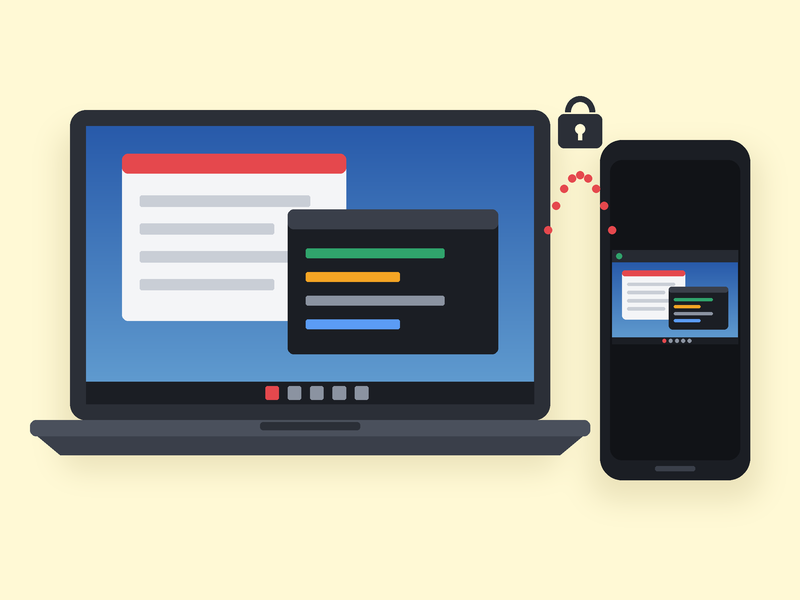
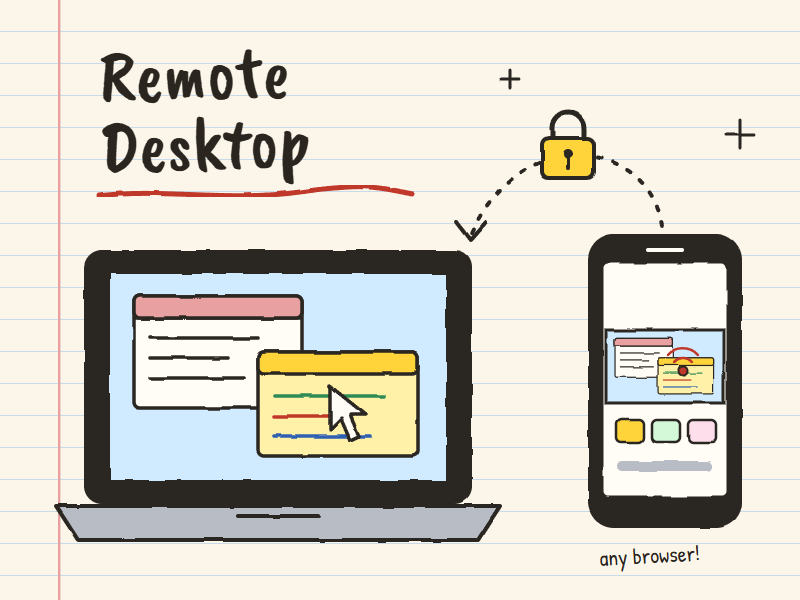
Parkour medal categories and a hand-drawn Remote Desktop card
CBG 2025: silver freestyle + speed. Voltz 2025: silver freestyle.
CBG 2026: bronze freestyle + speed. SPL5 keeps "11th in the World"
without a medal icon. Redraw the Remote Desktop card in the same
notebook style as the Loaf Tower and Jiu-Jitsu cards.

Claude-Session: https://claude.ai/code/session_01HHscnN11gzBZpL2bLG51DN

diff --git a/customprojects/parkour/index.html b/customprojects/parkour/index.html
@@ -76,7 +76,8 @@
                 <span class="year">2025</span>
                 <h3>Campeonato Brasileiro CBG 2025 <small>Brazilian Championship</small></h3>
                 <ul class="medals">
-                    <li><span class="medal silver" aria-hidden="true"></span>Silver Medal</li>
+                    <li><span class="medal silver" aria-hidden="true"></span>Silver - Freestyle Category</li>
+                    <li><span class="medal silver" aria-hidden="true"></span>Silver - Speed Category</li>
                 </ul>
                 <p class="links-row">
                     <a class="chip" href="https://www.instagram.com/p/DQrdpFOEW4F/" target="_blank"><i class="fab fa-instagram"></i> Competition Post</a>
@@ -95,7 +96,7 @@
                 <span class="year">2025</span>
                 <h3>Voltz Parkour 2025 <small>National Championship</small></h3>
                 <ul class="medals">
-                    <li><span class="medal silver" aria-hidden="true"></span>Silver Medal</li>
+                    <li><span class="medal silver" aria-hidden="true"></span>Silver - Freestyle Category</li>
                 </ul>
                 <p class="links-row">
                     <a class="chip" href="https://www.instagram.com/p/DRfTadpEQKg/" target="_blank"><i class="fab fa-instagram"></i> Semifinal Combo</a>
@@ -113,9 +114,7 @@
             <li class="comp sketch">
                 <span class="year">2026</span>
                 <h3>SPL5 - The Parkour World Championships 2026 <small>Vancouver, Canada</small></h3>
-                <ul class="medals">
-                    <li><span class="medal star" aria-hidden="true"></span>11th in the World</li>
-                </ul>
+                <p class="result">11th in the World</p>
                 <p class="muted">Qualified through Voltz Parkour</p>
                 <p class="links-row">
                     <a class="chip" href="https://www.instagram.com/reel/DcW7G5eRHXY/" target="_blank"><i class="fab fa-instagram"></i> My Line</a>
@@ -126,7 +125,8 @@
                 <span class="year">2026</span>
                 <h3>Campeonato Brasileiro CBG 2026 <small>Brazilian Championship</small></h3>
                 <ul class="medals">
-                    <li><span class="medal bronze" aria-hidden="true"></span>Bronze Medal</li>
+                    <li><span class="medal bronze" aria-hidden="true"></span>Bronze - Freestyle Category</li>
+                    <li><span class="medal bronze" aria-hidden="true"></span>Bronze - Speed Category</li>
                 </ul>
                 <p class="links-row">
                     <a class="chip" href="https://www.instagram.com/p/Dec2_eukUMQ/" target="_blank"><i class="fab fa-instagram"></i> Competition Post</a>

diff --git a/loaf_tower/js/cats.js b/loaf_tower/js/cats.js
@@ -129,6 +129,16 @@
       label: { en: 'Porcelain Cat', pt: 'Gato de Porcelana' }, desc: { en: 'Priceless. Please do not drop.', pt: 'Não tem preço. Por favor, não derrube.' } },
   };
 
+  // Loaf Tower cats are drawn and simulated 12% bigger than their base size (easier stacking).
+  const TOWER_K = 1.12;
+  ['loaf', 'curl', 'long', 'kitten', 'chonk', 'box', 'zoomies', 'perfect', 'cupcake', 'pudim', 'rainbow', 'galaxy'].forEach((k) => {
+    const t = TYPES[k];
+    t.w *= TOWER_K; t.h *= TOWER_K;
+    if (t.r) t.r *= TOWER_K;
+    if (t.face) t.face = [t.face[0] * TOWER_K, t.face[1] * TOWER_K];
+    t.fs = (t.fs || 1) * TOWER_K;
+  });
+
   /* ---- Purr Merge tiers: round cats that merge into the next tier ---- */
   const MERGE = [
     ['bean', 24, 'cream', 'Bean', 'Feijãozinho', 'Smallest cat. Biggest dreams.', 'Menor gato. Maiores sonhos.'],
@@ -766,8 +776,10 @@
     if (t.tail) {
       const sd = t.tail;
       const sw = Math.sin(T * 2.2 + seed) * 4;
-      const bx = sd * (w / 2 - 12), by = h / 2 - 10;
-      const tp = [[bx, by], [bx + sd * 20, by - 2], [bx + sd * 31, by - 20 + sw], [bx + sd * 25, by - 40 + sw * 1.6]];
+      // the tail curls up close along the side (it has no collider, so it must not look like part of the body's edge)
+      const bx = sd * (w / 2 - 16), by = h / 2 - 8;
+      const lift = Math.min(h * 0.62, 40);
+      const tp = [[bx, by], [bx + sd * 13, by - 3], [bx + sd * 17, by - lift * 0.5 + sw * 0.5], [bx + sd * 11, by - lift + sw]];
       D.tube(ctx, tp, { fill: P.kind === 'siamese' ? P.point : P.fill, width: 10 * Math.max(0.7, u), seed: seed + 3, boil, lw: 3 });
     }
 

diff --git a/loaf_tower/js/game.js b/loaf_tower/js/game.js
@@ -7,7 +7,7 @@
 
   const CX = 360;
   const GROUND_Y = 1050;
-  const PLAT_W = 330, PLAT_H = 46;
+  const PLAT_W = 400, PLAT_H = 46; // wider base = friendlier start (was 330)
   const FALL_Y = GROUND_Y + 330;
   const CM_PER_PX = 0.3;
   const DROP_SCREEN_Y = 228;
@@ -110,12 +110,13 @@
     pickType(n) {
       if (MILESTONES[n] && !this.seenThisRun.has(MILESTONES[n])) return MILESTONES[n];
       if (n < 2) return 'loaf';
-      const w = [['loaf', 30], ['curl', 14]];
-      if (n >= 3) w.push(['long', 12], ['perfect', 3]);
-      if (n >= 4) w.push(['kitten', 9]);
+      // round, rolly cats (curl, kitten, zoomies) are rarer; flat ones (loaf, long, perfect, box) more common
+      const w = [['loaf', 36], ['curl', 5]];
+      if (n >= 3) w.push(['long', 14], ['perfect', 5]);
+      if (n >= 4) w.push(['kitten', 5]);
       if (n >= 5) w.push(['chonk', 7]);
-      if (n > 5) w.push(['box', 5]);
-      if (n > 8) w.push(['zoomies', 4]);
+      if (n > 5) w.push(['box', 6]);
+      if (n > 8) w.push(['zoomies', 2]);
       if (n > 10) w.push(['cupcake', 3]);
       if (n > 13) w.push(['pudim', 3]);
       if (n > 16) w.push(['rainbow', 2.5]);

diff --git a/loaf_tower/js/render.js b/loaf_tower/js/render.js
@@ -54,11 +54,12 @@
   function drawBase(ctx, boil) {
     const { CX, GROUND_Y, PLAT_W, PLAT_H } = K();
     // stack of books under the cushion
+    const bk = PLAT_W / 330; // books follow the cushion width
     const books = [
-      { w: 280, h: 48, c: '#6fa8dc', s: '#3d6f9f', title: 'CATS' },
-      { w: 256, h: 40, c: '#e9c46a', s: '#b38f2f', title: '' },
-      { w: 290, h: 54, c: '#e76f51', s: '#a8432b', title: 'PHYSICS' },
-      { w: 266, h: 46, c: '#8ac926', s: '#5b8a14', title: '' },
+      { w: 280 * bk, h: 48, c: '#6fa8dc', s: '#3d6f9f', title: 'CATS' },
+      { w: 256 * bk, h: 40, c: '#e9c46a', s: '#b38f2f', title: '' },
+      { w: 290 * bk, h: 54, c: '#e76f51', s: '#a8432b', title: 'PHYSICS' },
+      { w: 266 * bk, h: 46, c: '#8ac926', s: '#5b8a14', title: '' },
     ];
     let y = GROUND_Y + PLAT_H - 6;
     books.forEach((b, i) => {

diff --git a/static/style.css b/static/style.css
@@ -380,6 +380,7 @@ main .projects-grid:not(.cards) > p { margin: 0; flex: 1 1 260px; text-align: ce
 .comp h3 { margin: 0 70px 6px 0; font-size: 28px; }
 .comp h3 small { display: block; font-family: var(--hand); font-size: 18px; color: var(--ink-soft); }
 .comp p { margin: 4px 0; }
+.comp .result { font-family: var(--brush); font-size: 23px; }
 
 .year {
     position: absolute;
@@ -424,7 +425,6 @@ main .projects-grid:not(.cards) > p { margin: 0; flex: 1 1 260px; text-align: ce
 .medal.gold { background: var(--gold); }
 .medal.silver { background: var(--silver); }
 .medal.bronze { background: var(--bronze); }
-.medal.star { background: var(--blue); }
 
 /*#endregion Parkour*/
 
